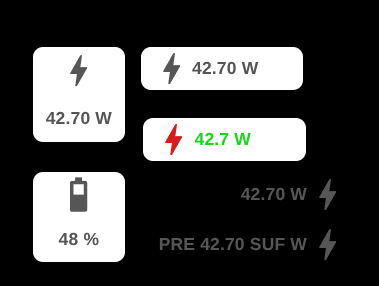
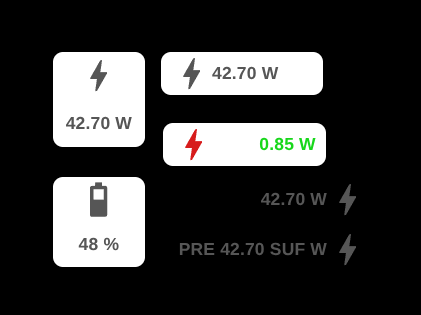
docs

diff --git a/.claude/docs/PLAN_FORMULA_TEXTALIGN.md b/.claude/docs/PLAN_FORMULA_TEXTALIGN.md
@@ -1,0 +1,271 @@
+# Plan: Formel-Feld und Text-Ausrichtung für Display Modi
+
+## Übersicht
+Erweiterung der Display-Modi um:
+1. **Formel-Feld** (nur NumericDisplay) - Sichere mathematische Berechnungen vor der Anzeige
+2. **Text-Ausrichtung** (Numeric + String Display) - Links/Mitte/Rechts für den angezeigten Wert
+
+---
+
+## 1. Formel-Evaluierung
+
+### Bibliothek: `math-expression-evaluator`
+- Aktiv gepflegt (letztes Update: 2025-06-06, Version 2.0.7)
+- Leichtgewichtig (~68KB)
+- Sandboxed Evaluation (kein eval/Function)
+- TypeScript Support
+
+### Variable x für Rohwert:
+```typescript
+import Mexp from 'math-expression-evaluator';
+const mexp = new Mexp();
+const xToken = { type: 3, show: 'x', token: 'x', value: 'x' };
+mexp.eval('x / 1000', [xToken], { x: 5000 }); // → 5
+```
+
+### Sicherheit:
+- Nur Variable `x` verfügbar
+- Try-Catch mit Fallback auf Rohwert
+
+### Beispiel-Formeln:
+- `x / 1000` → W zu kW
+- `x * 1.8 + 32` → °C zu °F
+- `sqrt(x)` → Wurzel
+- `round(x / 100) * 100` → Auf 100er runden
+
+---
+
+## 2. Text-Ausrichtung (beide Modi)
+
+### Optionen:
+- `left` - Linksbündig (default)
+- `center` - Zentriert
+- `right` - Rechtsbündig
+
+### Anwendung:
+- Gilt für NumericDisplay UND StringDisplay
+- CSS `textAlign` Property auf Typography
+
+---
+
+## Zu ändernde Dateien
+
+### 1. `src-widgets/package.json`
+```bash
+cd src-widgets && npm install math-expression-evaluator
+```
+
+### 2. `src-widgets/src/OneIconToRuleThemAll/utils/formulaEvaluator.ts` (NEU)
+```typescript
+import Mexp from 'math-expression-evaluator';
+
+const X_TOKEN = { type: 3, show: 'x', token: 'x', value: 'x' };
+
+export function evaluateFormula(formula: string | undefined, x: number): number | null {
+    if (!formula || formula.trim() === '' || formula.trim() === 'x') {
+        return null; // Keine Änderung nötig
+    }
+
+    try {
+        const mexp = new Mexp();
+        const result = mexp.eval(formula, [X_TOKEN], { x });
+
+        if (typeof result !== 'number' || !isFinite(result)) {
+            return null;
+        }
+
+        return result;
+    } catch (error) {
+        console.warn('[formulaEvaluator] Evaluation failed:', error);
+        return null;
+    }
+}
+```
+
+### 3. `src-widgets/src/OneIconToRuleThemAll/types/index.ts`
+
+**NumericDisplayModeConfig erweitern:**
+```typescript
+export interface NumericDisplayModeConfig {
+    // ... bestehende Felder ...
+    formula?: string;  // NEU: z.B. "x / 1000"
+}
+```
+
+**Neuen Type für TextAlign:**
+```typescript
+export type TextAlign = 'left' | 'center' | 'right';
+```
+
+**OneIconToRuleThemAllRxData erweitern:**
+```typescript
+// Im Display-Bereich:
+displayTextAlign?: TextAlign;  // NEU: Gilt für beide Display-Modi
+```
+
+### 4. `src-widgets/src/OneIconToRuleThemAll/config/widgetInfo.ts`
+
+**Im Numeric Display Bereich (nach numericDisplayValueMapping):**
+```typescript
+{
+    name: 'numericDisplayFormula',
+    label: 'numeric_display_formula',
+    type: 'text',
+    tooltip: 'numeric_display_formula_tooltip',
+    default: 'x',  // Default: Rohwert unverändert
+},
+```
+
+**Im Display Settings Bereich (displayIconTextGap etc.):**
+```typescript
+{
+    name: 'displayTextAlign',
+    label: 'display_text_align',
+    type: 'select',
+    options: [
+        { value: 'left', label: 'align_left' },
+        { value: 'center', label: 'align_center' },
+        { value: 'right', label: 'align_right' },
+    ],
+    default: 'left',
+},
+```
+
+### 5. `src-widgets/src/OneIconToRuleThemAll/modes/NumericDisplayMode.ts`
+
+**Import hinzufügen:**
+```typescript
+import { evaluateFormula } from '../utils/formulaEvaluator';
+```
+
+**In `updateValue()` nach `toNumber()` und VOR allem anderen:**
+```typescript
+private updateValue(rawValue: unknown): void {
+    let numValue = toNumber(rawValue);
+
+    if (numValue === null) {
+        // ... bestehender null-handling Code ...
+        return;
+    }
+
+    // NEU: Apply formula BEFORE any formatting
+    if (this.config.formula) {
+        const calculated = evaluateFormula(this.config.formula, numValue);
+        if (calculated !== null) {
+            numValue = calculated;
+        }
+        // Bei Fehler: Original-Wert beibehalten
+    }
+
+    // ... Rest der Methode unverändert ...
+}
+```
+
+### 6. `src-widgets/src/OneIconToRuleThemAll/components/HorizontalDisplay.tsx`
+
+**Props erweitern:**
+```typescript
+interface HorizontalDisplayProps {
+    // ... bestehende Props ...
+    textAlign?: 'left' | 'center' | 'right';  // NEU
+}
+```
+
+**Typography Style anpassen:**
+```typescript
+<Typography
+    sx={{
+        color: valueColor,
+        fontSize: `${valueFontSize}px`,
+        fontWeight: 'bold',
+        whiteSpace: 'nowrap',
+        textAlign: textAlign || 'left',  // NEU
+        width: '100%',  // Für textAlign wirksam
+    }}
+>
+```
+
+### 7. `src-widgets/src/OneIconToRuleThemAll/components/VerticalDisplay.tsx`
+
+**Analog zu HorizontalDisplay:**
+- Props erweitern
+- Typography mit textAlign
+
+### 8. `src-widgets/src/OneIconToRuleThemAll/index.tsx`
+
+**In `renderContent()` bei NUMERIC_DISPLAY und STRING_DISPLAY:**
+```typescript
+case FlexMode.NUMERIC_DISPLAY:
+case FlexMode.STRING_DISPLAY: {
+    // ... bestehender Code ...
+
+    return isVertical ? (
+        <VerticalDisplay
+            // ... bestehende Props ...
+            textAlign={this.state.rxData.displayTextAlign}  // NEU
+        />
+    ) : (
+        <HorizontalDisplay
+            // ... bestehende Props ...
+            textAlign={this.state.rxData.displayTextAlign}  // NEU
+        />
+    );
+}
+```
+
+### 9. `src-widgets/src/translations.ts`
+
+**English (en):**
+```typescript
+numeric_display_formula: 'Formula',
+numeric_display_formula_tooltip: 'Formula with x as value (e.g. x / 1000 for W→kW)',
+display_text_align: 'Text Alignment',
+align_left: 'Left',
+align_center: 'Center',
+align_right: 'Right',
+```
+
+**German (de):**
+```typescript
+numeric_display_formula: 'Formel',
+numeric_display_formula_tooltip: 'Formel mit x als Wert (z.B. x / 1000 für W→kW)',
+display_text_align: 'Textausrichtung',
+align_left: 'Links',
+align_center: 'Mitte',
+align_right: 'Rechts',
+```
+
+---
+
+## Implementierungsreihenfolge
+
+1. `cd src-widgets && npm install math-expression-evaluator`
+2. `formulaEvaluator.ts` erstellen
+3. `types/index.ts` erweitern (TextAlign, formula)
+4. `NumericDisplayMode.ts` - Formel-Auswertung einbauen
+5. `widgetInfo.ts` - Config-Felder hinzufügen
+6. `HorizontalDisplay.tsx` + `VerticalDisplay.tsx` - textAlign Prop
+7. `index.tsx` - textAlign durchreichen
+8. `translations.ts` - Labels (EN + DE)
+9. `npm run build && npm run lint`
+10. Manueller Test im vis-2 Editor
+
+---
+
+## Test-Szenarien
+
+### Formel-Tests:
+- Default `x` → Originalwert unverändert
+- `x / 1000` mit Wert 1500 → 1.5 anzeigen
+- `x * 2` mit Wert 50 → 100 anzeigen
+- Ungültige Formel → Originalwert (Fallback)
+- Division durch 0 → Fallback oder Infinity-Handling
+
+### TextAlign-Tests:
+- NumericDisplay mit right → Zahl rechtsbündig
+- StringDisplay mit center → Text zentriert
+- Default (kein Wert) → linksbündig
+
+---
+
+*Erstellt: 2025-11-25*

diff --git a/.claude/PROGRESS_FORMULA_TEXTALIGN.md b/.claude/PROGRESS_FORMULA_TEXTALIGN.md
@@ -1,0 +1,33 @@
+# Progress: Formula & TextAlign Implementation
+
+## Status: COMPLETED ✓
+
+## Completed Steps
+- [x] 1. Install math-expression-evaluator
+- [x] 2. Create formulaEvaluator.ts
+- [x] 3. Extend types/index.ts
+- [x] 4. Update NumericDisplayMode.ts
+- [x] 5. Add config fields to widgetInfo.ts
+- [x] 6. Update HorizontalDisplay.tsx
+- [x] 7. Update VerticalDisplay.tsx
+- [x] 8. Update index.tsx
+- [x] 9. Add translations
+- [x] 10. Run build + lint
+
+## Summary
+All features implemented successfully:
+- **Formula field** for NumericDisplay: Evaluates formulas like `x / 1000` before display
+- **Text alignment** for both Numeric and String Display modes: left/center/right
+
+## Files Changed
+- `src-widgets/package.json` - Added math-expression-evaluator
+- `src-widgets/src/OneIconToRuleThemAll/utils/formulaEvaluator.ts` - NEW
+- `src-widgets/src/OneIconToRuleThemAll/types/index.ts` - Added TextAlign, formula
+- `src-widgets/src/OneIconToRuleThemAll/modes/NumericDisplayMode.ts` - Formula evaluation
+- `src-widgets/src/OneIconToRuleThemAll/config/widgetInfo.ts` - Config fields
+- `src-widgets/src/OneIconToRuleThemAll/components/HorizontalDisplay.tsx` - textAlign prop
+- `src-widgets/src/OneIconToRuleThemAll/components/VerticalDisplay.tsx` - textAlign prop
+- `src-widgets/src/OneIconToRuleThemAll/index.tsx` - Pass textAlign + formula config
+- `src-widgets/src/translations.ts` - EN + DE translations
+
+## Completed: 2025-11-25
